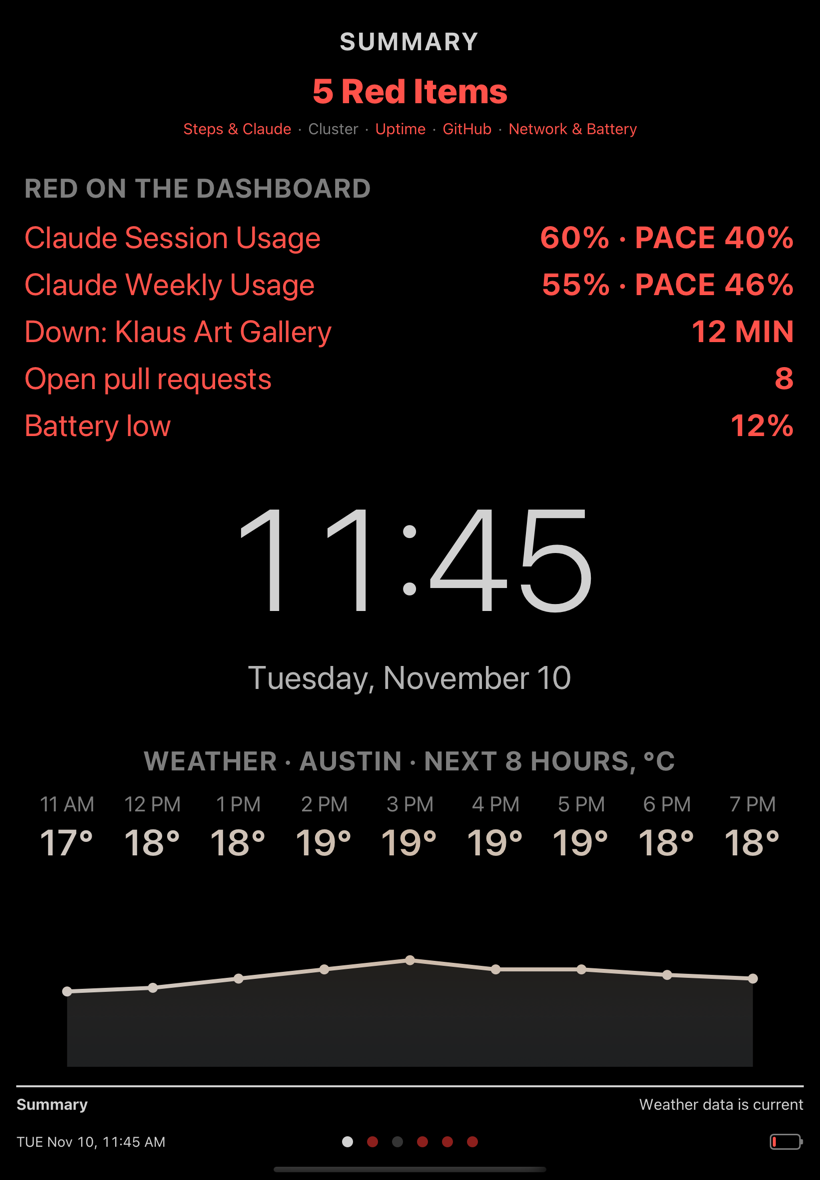
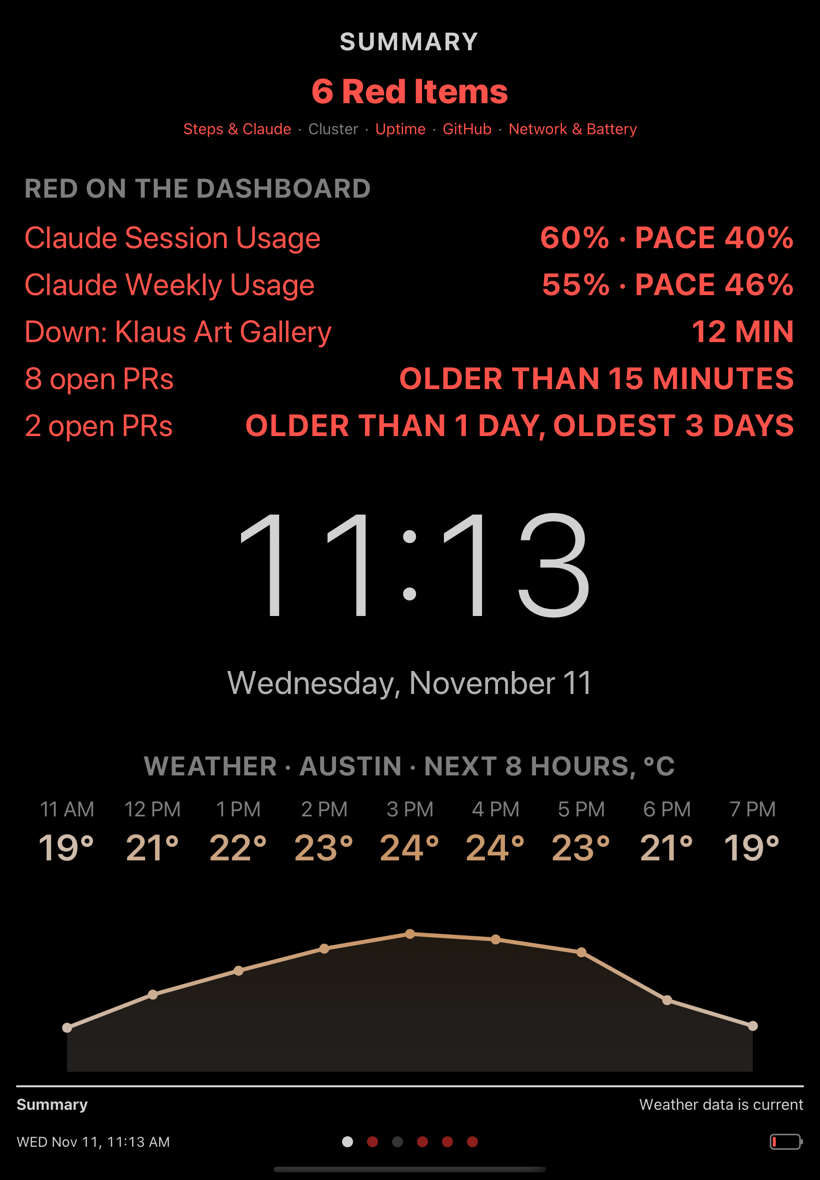
GitHub: list the oldest open PRs; alert on five or more, or one over a day old
- The page lists up to five open PRs, oldest first, with "… plus N other PRs";
  a PR open for more than a day is red
- Two alerts for the summary: "N open PRs · older than 15 minutes" at five or
  more, and "Open PR in <repo> · for 2 days" (or "N open PRs · older than 1 day,
  oldest …") for overdue ones
- IPADDASH_GITHUB_OPEN now makes up whole PRs, so the list matches the count
- Screenshots and README updated

diff --git a/iPadDash/GitHubPageViewController.swift b/iPadDash/GitHubPageViewController.swift
@@ -1,14 +1,14 @@
 import UIKit
 
-/// Pull request activity for the klaushofrichter account. Open PRs and
-/// the top repositories on top; recent merges fill the rest of the page.
+/// Pull request activity for the klaushofrichter account. The oldest open PRs on
+/// top (red once older than a day); recent merges fill the rest of the page.
 /// Updates hourly and on tap; the title bar shows the data's age in minutes.
 final class GitHubPageViewController: DashboardPageViewController {
     override var fixedFetchInterval: TimeInterval? { return 3600 }
     // The age in the title bar counts in minutes.
     override var redrawInterval: TimeInterval? { return 60 }
     private let staleAfter: TimeInterval = 2 * 3600     // two missed hourly updates
-    private let maxOpenPRs = 5                          // more turns the headline red
+    private let shownOpenPRs = 5                        // rows; more get a "plus …" line
     // Text below the subtitle is twice the size of the other pages' detail text.
     private let mergeRowHeight: CGFloat = 92
 
@@ -17,7 +17,8 @@ final class GitHubPageViewController: DashboardPageViewController {
     private var lastError: Error?
     private var lastSuccess: Date?
 
-    private let repoRows = UIStackView()
+    private let openRows = UIStackView()
+    private let moreOpenLabel = SpacedLabel(font: font(32), alpha: 0.6)
     private let noOpenLabel = SpacedLabel(font: font(32), alpha: 0.6)
     private lazy var mergeHeading = sectionHeading("")
     private let mergeArea = UIView()
@@ -26,13 +27,24 @@ final class GitHubPageViewController: DashboardPageViewController {
 
     override func viewDidLoad() {
         super.viewDidLoad()
-        let openHeading = sectionHeading("Open pull requests by repository")
-        repoRows.axis = .vertical
-        repoRows.spacing = 10
-        for _ in 0..<5 { repoRows.addArrangedSubview(KeyValueRow(size: 32)) }
+        let openHeading = sectionHeading("Open pull requests, oldest first")
+        openRows.axis = .vertical
+        openRows.spacing = 10
+        for _ in 0..<shownOpenPRs {
+            let row = KeyValueRow(size: 32)
+            // A long title is cut short; the age stays.
+            row.keyLabel.setContentCompressionResistancePriority(.defaultLow, for: .horizontal)
+            row.keyLabel.adjustsFontSizeToFitWidth = false
+            row.keyLabel.lineBreakMode = .byTruncatingTail
+            row.valueLabel.setContentCompressionResistancePriority(.required, for: .horizontal)
+            row.valueLabel.setContentHuggingPriority(.required, for: .horizontal)
+            openRows.addArrangedSubview(row)
+        }
         noOpenLabel.textAlignment = .left
         noOpenLabel.set("No open pull requests")
-        repoRows.insertArrangedSubview(noOpenLabel, at: 0)
+        openRows.insertArrangedSubview(noOpenLabel, at: 0)
+        moreOpenLabel.textAlignment = .left
+        openRows.addArrangedSubview(moreOpenLabel)
         mergeHeading.set("Recent merges")
 
         mergeRows.axis = .vertical
@@ -41,18 +53,18 @@ final class GitHubPageViewController: DashboardPageViewController {
         mergeArea.addSubview(mergeRows)
 
         let content = addFullPage(title: "GitHub", bar: "GitHub · \(service.owner)")
-        for v in [openHeading, repoRows, mergeHeading, mergeArea] as [UIView] {
+        for v in [openHeading, openRows, mergeHeading, mergeArea] as [UIView] {
             v.translatesAutoresizingMaskIntoConstraints = false
             view.addSubview(v)
         }
         NSLayoutConstraint.activate([
             openHeading.topAnchor.constraint(equalTo: content.topAnchor, constant: 8),
             openHeading.leadingAnchor.constraint(equalTo: content.leadingAnchor),
-            repoRows.topAnchor.constraint(equalTo: openHeading.bottomAnchor, constant: 14),
-            repoRows.leadingAnchor.constraint(equalTo: content.leadingAnchor),
-            repoRows.trailingAnchor.constraint(equalTo: content.trailingAnchor),
+            openRows.topAnchor.constraint(equalTo: openHeading.bottomAnchor, constant: 14),
+            openRows.leadingAnchor.constraint(equalTo: content.leadingAnchor),
+            openRows.trailingAnchor.constraint(equalTo: content.trailingAnchor),
 
-            mergeHeading.topAnchor.constraint(equalTo: repoRows.bottomAnchor, constant: 32),
+            mergeHeading.topAnchor.constraint(equalTo: openRows.bottomAnchor, constant: 32),
             mergeHeading.leadingAnchor.constraint(equalTo: content.leadingAnchor),
             mergeHeading.trailingAnchor.constraint(lessThanOrEqualTo: content.trailingAnchor),
             mergeArea.topAnchor.constraint(equalTo: mergeHeading.bottomAnchor, constant: 14),
@@ -87,9 +99,10 @@ final class GitHubPageViewController: DashboardPageViewController {
             switch result {
             case .success(var snapshot):
                 #if DEBUG
-                // IPADDASH_GITHUB_OPEN=<n> pretends n pull requests are open.
+                // IPADDASH_GITHUB_OPEN=<n> pretends n made-up pull requests are open,
+                // the oldest 3 days old.
                 if let n = ProcessInfo.processInfo.environment["IPADDASH_GITHUB_OPEN"].flatMap(Int.init) {
-                    snapshot.openCount = n
+                    snapshot = GitHubPageViewController.demo(open: n, into: snapshot)
                 }
                 #endif
                 self.snapshot = snapshot
@@ -115,15 +128,17 @@ final class GitHubPageViewController: DashboardPageViewController {
             default: recent = groupedNumber(s.merged24h)
             }
             mergeHeading.set("Recent merges (\(recent) in the last 24 hours)")
-            let top = Array(s.openByRepo.prefix(5))
-            noOpenLabel.isHidden = !top.isEmpty
+            let shown = Array(s.openPRs.prefix(shownOpenPRs))
+            noOpenLabel.isHidden = s.openCount > 0
             // Unused slots collapse, so the merge list below gets the space.
-            repoRows.showRows(top) { (row: KeyValueRow, entry) in
-                let count = counted(entry.count, "PR")
-                // The age of the oldest open PR.
-                let age = entry.oldest.map { " · " + durationText(now.timeIntervalSince($0)) } ?? ""
-                row.set(entry.repo, count + age)
+            openRows.showRows(shown) { (row: KeyValueRow, pr) in
+                let age = now.timeIntervalSince(pr.created)
+                row.set("\(pr.repo) #\(pr.number) · \(pr.title)", durationText(age),
+                        alert: age > GitHubSnapshot.overdueAge)
             }
+            let more = s.openCount - shown.count
+            moreOpenLabel.isHidden = more <= 0
+            moreOpenLabel.set("… plus \(counted(more, "other PR"))")
             mergeRows.showRows(s.recentMerges) { (row: MergeRowView, pr) in
                 let when = Calendar.current.isDateInToday(pr.mergedAt)
                     ? timeOfDayFormatter.string(from: pr.mergedAt) : self.dayFormatter.string(from: pr.mergedAt)
@@ -133,11 +148,11 @@ final class GitHubPageViewController: DashboardPageViewController {
             heroLabel.set(lastError?.localizedDescription ?? "loading…")
             summaryLabel.set("")
             noOpenLabel.isHidden = true
-            repoRows.arrangedSubviews.forEach { $0.isHidden = true }
+            openRows.arrangedSubviews.forEach { $0.isHidden = true }
             mergeRows.arrangedSubviews.forEach { $0.isHidden = true }
         }
-        let tooManyOpen = (snapshot?.openCount ?? 0) > maxOpenPRs
-        heroLabel.alert = tooManyOpen || (snapshot == nil && lastError != nil)
+        let openAlerts = snapshot?.alerts(now: now) ?? []
+        heroLabel.alert = !openAlerts.isEmpty || (snapshot == nil && lastError != nil)
 
         // Age of the data in minutes, counted from the last successful fetch.
         let age = lastSuccess.map { now.timeIntervalSince($0) }
@@ -148,11 +163,29 @@ final class GitHubPageViewController: DashboardPageViewController {
         var alerts: [PageAlert] = []
         if let error = lastError { alerts.append(PageAlert("GitHub", error: error)) }
         if stale, let age = age { alerts.append(PageAlert("GitHub data", "\(durationText(age)) old")) }
-        if tooManyOpen, let s = snapshot { alerts.append(PageAlert("Open pull requests", "\(s.openCount)")) }
-        self.alerts = alerts
+        self.alerts = alerts + openAlerts
     }
 
 }
+
+#if DEBUG
+extension GitHubPageViewController {
+    /// `snapshot` with `open` made-up pull requests, spread from 3 days to 20 minutes old.
+    static func demo(open: Int, into snapshot: GitHubSnapshot, now: Date = Date()) -> GitHubSnapshot {
+        var snapshot = snapshot
+        let repos = ["cams", "art", "loopy-game", "cam-proxy", "kauf-server"]
+        let titles = ["Weekly dependency updates", "Fix the night mode fade", "Release to production",
+                      "Retry a dropped connection once", "README: setup steps"]
+        snapshot.openCount = open
+        snapshot.openPRs = (0..<min(open, 100)).map { i in
+            let age = 3 * 86400 * pow(0.45, Double(i)) + 20 * 60
+            return OpenPR(repo: repos[i % repos.count], number: 120 - i * 7,
+                          title: titles[i % titles.count], created: now.addingTimeInterval(-age))
+        }
+        return snapshot
+    }
+}
+#endif
 
 /// Two lines: "12:38   traders-game #21", then the title starting under the ID,
 /// one line and clipped when too long.

diff --git a/iPadDash/GitHubService.swift b/iPadDash/GitHubService.swift
@@ -2,9 +2,9 @@ import Foundation
 
 // Pull request activity across the repositories owned by klaushofrichter, via
 // GitHub's search API and a fine-grained token (Pull requests: read-only on all
-// repositories). Each refresh is three searches: open PRs (at least 15 minutes old), merged in the last
-// 24 h (count only), and merged in the last 30 days (count and the newest ones,
-// via GraphQL for their target branch).
+// repositories). Each refresh is three searches: open PRs (at least 15 minutes old,
+// oldest first), merged in the last 24 h (count only), and merged in the last 30
+// days (count and the newest ones, via GraphQL for their target branch).
 
 struct MergedPR {
     let repo: String
@@ -14,15 +14,52 @@ struct MergedPR {
     let base: String            // target branch, e.g. "main" or "production"
 }
 
+struct OpenPR: Equatable {
+    let repo: String
+    let number: Int
+    let title: String
+    let created: Date
+}
+
 /// Open PRs younger than this are taken to be work in progress and left out.
-private let openPRMinAge: TimeInterval = 15 * 60
+let openPRMinAge: TimeInterval = 15 * 60
 
 struct GitHubSnapshot {
+    /// All open PRs at least `openPRMinAge` old; `openPRs` holds the oldest 100 of them.
     var openCount = 0
-    var openByRepo: [(repo: String, count: Int, oldest: Date?)] = []   // most open PRs first
+    var openPRs: [OpenPR] = []                          // oldest first
     var merged24h = 0
     var merged30d = 0
     var recentMerges: [MergedPR] = []                   // newest first
+
+    /// This many open PRs or more is an alert.
+    static let manyOpen = 5
+    /// An open PR older than this is overdue, and an alert on its own.
+    static let overdueAge: TimeInterval = 24 * 3600
+
+    func overdue(now: Date) -> [OpenPR] {
+        return openPRs.filter { now.timeIntervalSince($0.created) > GitHubSnapshot.overdueAge }
+    }
+
+    /// "6 open PRs · older than 15 minutes", and "Open PR in art · for 2 days" or
+    /// "3 open PRs · older than 1 day, oldest 4 days".
+    func alerts(now: Date) -> [PageAlert] {
+        var alerts: [PageAlert] = []
+        if openCount >= GitHubSnapshot.manyOpen {
+            alerts.append(PageAlert(counted(openCount, "open PR"), "older than \(durationText(openPRMinAge))"))
+        }
+        let overdue = self.overdue(now: now)
+        if let oldest = overdue.first {
+            let age = durationText(now.timeIntervalSince(oldest.created))
+            if overdue.count == 1 {
+                alerts.append(PageAlert("Open PR in \(oldest.repo)", "for \(age)"))
+            } else {
+                alerts.append(PageAlert(counted(overdue.count, "open PR"),
+                                        "older than \(durationText(GitHubSnapshot.overdueAge)), oldest \(age)"))
+            }
+        }
+        return alerts
+    }
 }
 
 final class GitHubService {
@@ -36,24 +73,20 @@ final class GitHubService {
         var snapshot = GitHubSnapshot()
         let group = FetchGroup()
 
-        func search(_ query: String, perPage: Int, _ apply: @escaping (Int, [[String: Any]]) -> Void) {
-            self.search(query, perPage: perPage, completion: group.collect { apply($0.0, $0.1) })
+        func search(_ query: String, perPage: Int, sort: String? = nil, order: String? = nil,
+                    _ apply: @escaping (Int, [[String: Any]]) -> Void) {
+            self.search(query, perPage: perPage, sort: sort, order: order, completion: group.collect { apply($0.0, $0.1) })
         }
 
         search("is:pr is:open archived:false user:\(owner) created:<=\(isoDateTime(now.addingTimeInterval(-openPRMinAge)))",
-               perPage: 100) { total, items in
+               perPage: 100, sort: "created", order: "asc") { total, items in
             snapshot.openCount = total
-            var counts: [String: Int] = [:]
-            var oldest: [String: Date] = [:]
-            for item in items {
-                let repo = GitHubService.repoName(item)
-                counts[repo, default: 0] += 1
-                if let created = parseDate(item["created_at"]) {
-                    oldest[repo] = min(oldest[repo] ?? created, created)
-                }
-            }
-            snapshot.openByRepo = counts.map { (repo: $0.key, count: $0.value, oldest: oldest[$0.key]) }
-                .sorted { $0.count != $1.count ? $0.count > $1.count : $0.repo < $1.repo }
+            snapshot.openPRs = items.compactMap { item -> OpenPR? in
+                guard let created = parseDate(item["created_at"]),
+                      let number = (item["number"] as? NSNumber)?.intValue else { return nil }
+                return OpenPR(repo: GitHubService.repoName(item), number: number,
+                              title: item["title"] as? String ?? "", created: created)
+            }.sorted { $0.created < $1.created }
         }
         search("is:pr is:merged user:\(owner) merged:>=\(isoDateTime(now.addingTimeInterval(-86400)))",
                perPage: 1) { total, _ in
@@ -112,10 +145,13 @@ final class GitHubService {
         }
     }
 
-    private func search(_ query: String, perPage: Int,
+    private func search(_ query: String, perPage: Int, sort: String?, order: String?,
                         completion: @escaping (Result<(Int, [[String: Any]]), Error>) -> Void) {
+        var parameters = ["q": query, "per_page": String(perPage)]
+        parameters["sort"] = sort
+        parameters["order"] = order
         var request = URLRequest(url: url(URL(string: "https://api.github.com/search/issues")!,
-                                          query: ["q": query, "per_page": String(perPage)]))
+                                          query: parameters))
         request.setValue("Bearer \(token ?? "")", forHTTPHeaderField: "Authorization")
         request.setValue("application/vnd.github+json", forHTTPHeaderField: "Accept")
         request.setValue("2022-11-28", forHTTPHeaderField: "X-GitHub-Api-Version")

diff --git a/iPadDashTests/ModelTests.swift b/iPadDashTests/ModelTests.swift
@@ -254,4 +254,40 @@ final class ModelTests: XCTestCase {
         XCTAssertFalse(PageAlert("GitHub", error: ServiceError.http(500, nil)).offline)
         XCTAssertEqual(PageAlert("GitHub", error: ServiceError.http(500, "boom")).detail, "HTTP 500: boom")
     }
+
+    func testGitHubOpenPRAlerts() {
+        let now = Date()
+        func pr(_ repo: String, hours: Double) -> OpenPR {
+            return OpenPR(repo: repo, number: 1, title: "t", created: now.addingTimeInterval(-hours * 3600))
+        }
+        var s = GitHubSnapshot()
+        XCTAssertEqual(s.alerts(now: now), [])
+
+        // Four young PRs: no alert. Five: one.
+        s.openPRs = (0..<4).map { _ in pr("art", hours: 2) }
+        s.openCount = 4
+        XCTAssertEqual(s.alerts(now: now), [])
+        s.openPRs.append(pr("cams", hours: 3))
+        s.openCount = 5
+        XCTAssertEqual(s.alerts(now: now), [PageAlert("5 open PRs", "older than 15 minutes")])
+
+        // One PR older than a day is an alert on its own, naming its repository.
+        s.openPRs = [pr("art", hours: 49)]
+        s.openCount = 1
+        XCTAssertEqual(s.alerts(now: now), [PageAlert("Open PR in art", "for 2 days")])
+
+        // Several overdue: counted, with the oldest's age; plus the many-open alert.
+        s.openPRs = [pr("art", hours: 75), pr("cams", hours: 30)] + (0..<4).map { _ in pr("x", hours: 1) }
+        s.openCount = 6
+        XCTAssertEqual(s.alerts(now: now), [PageAlert("6 open PRs", "older than 15 minutes"),
+                                            PageAlert("2 open PRs", "older than 1 day, oldest 3 days")])
+        XCTAssertEqual(s.overdue(now: now).map { $0.repo }, ["art", "cams"])
+    }
+
+    func testGitHubDemoPRsAreOldestFirst() {
+        let s = GitHubPageViewController.demo(open: 8, into: GitHubSnapshot())
+        XCTAssertEqual(s.openCount, 8)
+        XCTAssertEqual(s.openPRs.count, 8)
+        XCTAssertEqual(s.openPRs.map { $0.created }, s.openPRs.map { $0.created }.sorted())
+    }
 }

diff --git a/README.md b/README.md
@@ -115,13 +115,15 @@ down turns its row red, with how long it has been down.
 
 ### GitHub
 
-Open pull requests by repository with the age of the oldest, and the most recent
-merges with their target branch. More than five open pull requests turns the
-headline red.
+The oldest open pull requests with their age (up to five, then "… plus 3 other
+PRs"), and the most recent merges with their target branch. Two things turn it red:
+five or more open pull requests, and any pull request open for more than a day,
+whose row is red too. Pull requests younger than 15 minutes are taken to be work in
+progress and left out.
 
 <p>
-  <img src="docs/screenshots/github.png" width="32%" alt="GitHub page: one open pull request and recent merges">
-  <img src="docs/screenshots/github-many.png" width="32%" alt="GitHub page: eight open pull requests, headline in red">
+  <img src="docs/screenshots/github.png" width="32%" alt="GitHub page: three open pull requests, oldest first, and recent merges">
+  <img src="docs/screenshots/github-many.png" width="32%" alt="GitHub page: eight open pull requests, two of them older than a day in red">
 </p>
 
 ### Network & Battery
@@ -212,8 +214,8 @@ later.
   Most days the answer is the clock.
 - **Knowing a website is down before a visitor says so.** The uptime page turns a
   row red; the summary page says which site and for how long.
-- **Keeping pull requests from piling up.** Open pull requests by repository, with
-  their age, and a red headline when there are too many.
+- **Keeping pull requests from piling up.** The oldest open pull requests with
+  their age, red when there are too many or one has waited more than a day.
 - **A daily nudge.** Steps against the day's pace, and how much of the Claude
   usage window is left.
 - **A clock and weather station** that happens to tell you when something broke.
